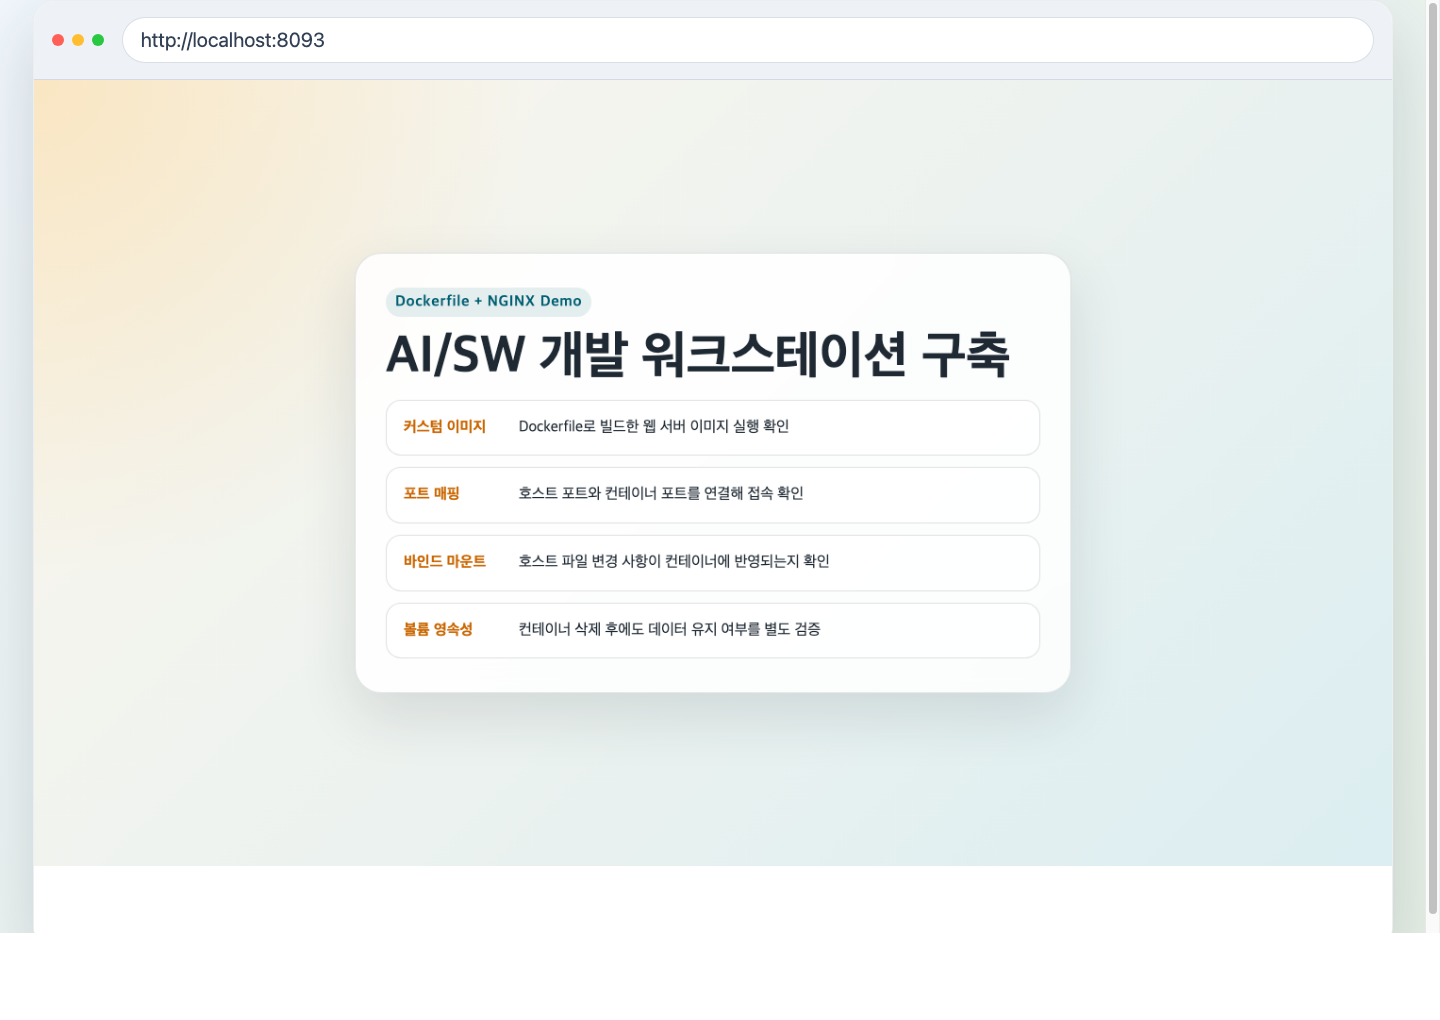
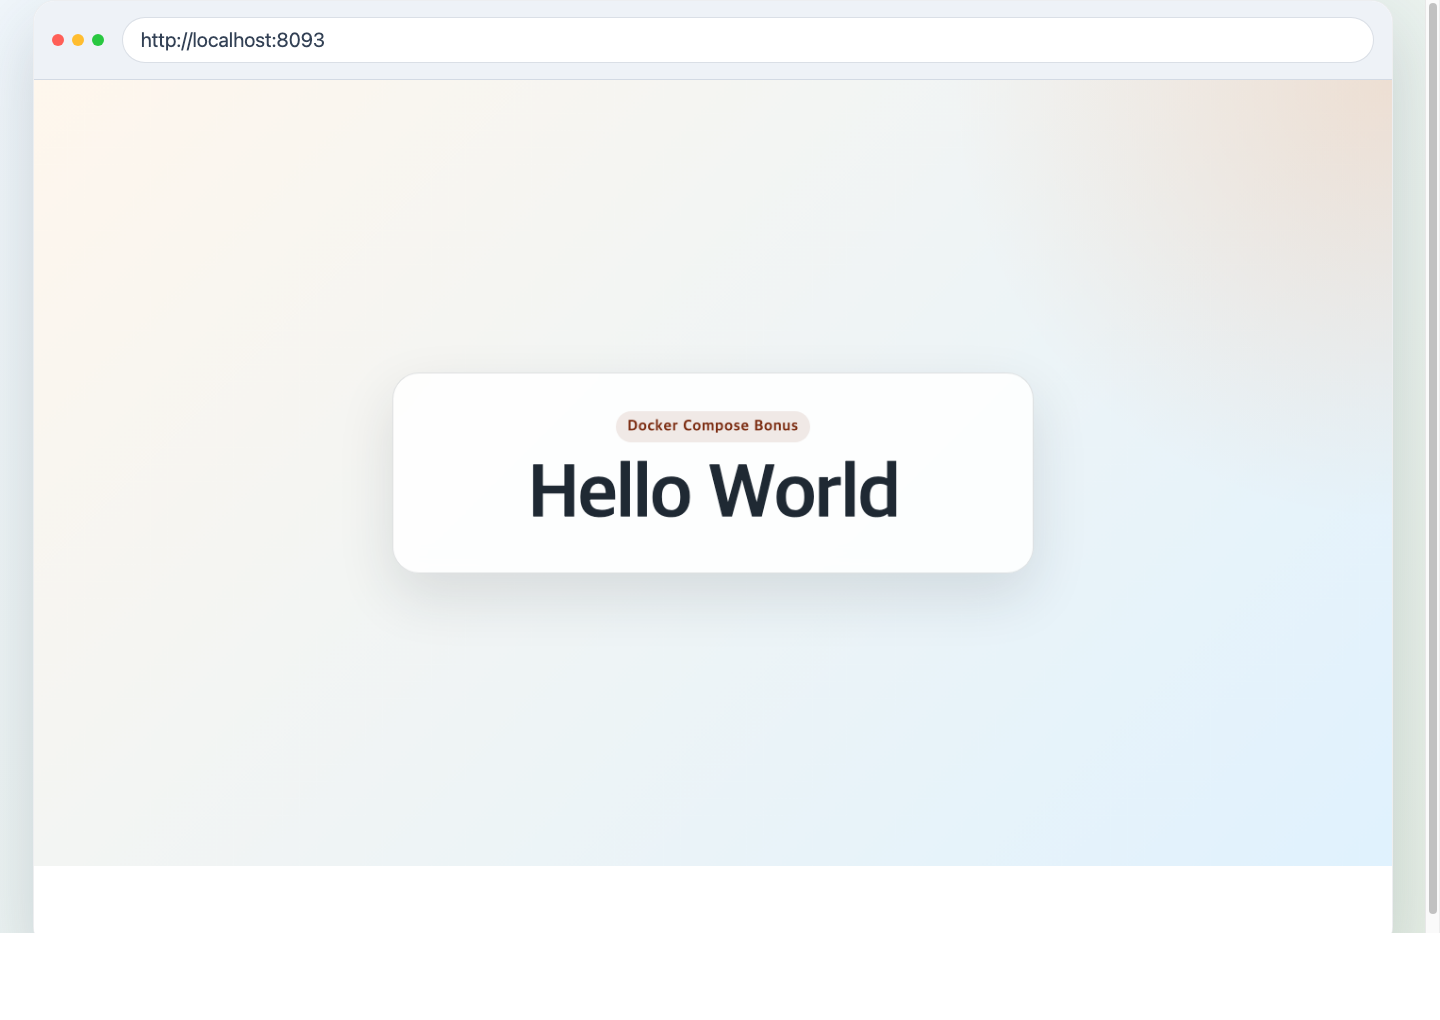
docs: distinguish web screenshots with hello world variants

diff --git a/bonus/compose/site/index.html b/bonus/compose/site/index.html
@@ -7,11 +7,9 @@
     <style>
       :root {
         color-scheme: light;
-        --bg: #f4f1ea;
         --card: rgba(255, 255, 255, 0.85);
         --ink: #1f2933;
-        --accent: #005f73;
-        --accent-2: #ca6702;
+        --accent: #7c2d12;
         --line: rgba(31, 41, 51, 0.14);
       }
 
@@ -25,8 +23,8 @@
         font-family: "Pretendard", "Apple SD Gothic Neo", "Noto Sans KR", sans-serif;
         color: var(--ink);
         background:
-          radial-gradient(circle at top left, rgba(238, 155, 0, 0.18), transparent 32%),
-          linear-gradient(135deg, #fdf7ed 0%, #dceef2 100%);
+          radial-gradient(circle at top right, rgba(249, 115, 22, 0.16), transparent 28%),
+          linear-gradient(135deg, #fff7ed 0%, #e0f2fe 100%);
         display: grid;
         place-items: center;
         padding: 24px;
@@ -48,7 +46,7 @@
         margin-bottom: 18px;
         padding: 7px 12px;
         border-radius: 999px;
-        background: rgba(0, 95, 115, 0.1);
+        background: rgba(124, 45, 18, 0.1);
         color: var(--accent);
         font-weight: 700;
         letter-spacing: 0.04em;
@@ -60,15 +58,11 @@
         line-height: 1;
         letter-spacing: -0.03em;
       }
-
-      code {
-        font-family: "SFMono-Regular", "Menlo", monospace;
-      }
     </style>
   </head>
   <body>
     <main>
-      <span class="eyebrow">Dockerfile + NGINX Demo</span>
+      <span class="eyebrow">Docker Compose Bonus</span>
       <h1>Hello World</h1>
     </main>
   </body>

diff --git a/README.md b/README.md
@@ -20,7 +20,9 @@
 │   └── compose/
 │       ├── bonus.env
 │       ├── browser-frame.html
-│       └── compose.yaml
+│       ├── compose.yaml
+│       └── site/
+│           └── index.html
 ├── Dockerfile
 ├── .dockerignore
 ├── app/
@@ -686,6 +688,7 @@ docker exec mission-volume-2 bash -lc "cat /data/hello.txt"
 - Compose 파일: [compose.yaml](bonus/compose/compose.yaml)
 - 환경변수 파일: [bonus.env](bonus/compose/bonus.env)
 - 캡처 프레임 템플릿: [browser-frame.html](bonus/compose/browser-frame.html)
+- Compose 전용 웹 페이지: [index.html](bonus/compose/site/index.html)
 - 실행 로그: [bonus-compose.txt](docs/logs/bonus-compose.txt)
 - 접속 캡처: [bonus-compose-8093.png](docs/assets/bonus-compose-8093.png)
 
@@ -699,7 +702,7 @@ docker exec mission-volume-2 bash -lc "cat /data/hello.txt"
 
 ### 20-2. Docker Compose 기초: 단일 서비스
 
-`web` 서비스는 기존 과제의 `Dockerfile` 을 그대로 재사용해 이미지를 빌드하고, `BONUS_WEB_PORT` 환경변수로 호스트 포트를 정한다.
+`web` 서비스는 기존 과제의 `Dockerfile` 을 그대로 재사용해 이미지를 빌드하고, Compose 전용 페이지인 `bonus/compose/site/` 를 읽기 전용으로 마운트한다. 호스트 포트는 `BONUS_WEB_PORT` 환경변수로 정한다.
 
 ```bash
 $ docker compose -f bonus/compose/compose.yaml --env-file bonus/compose/bonus.env up -d --build
